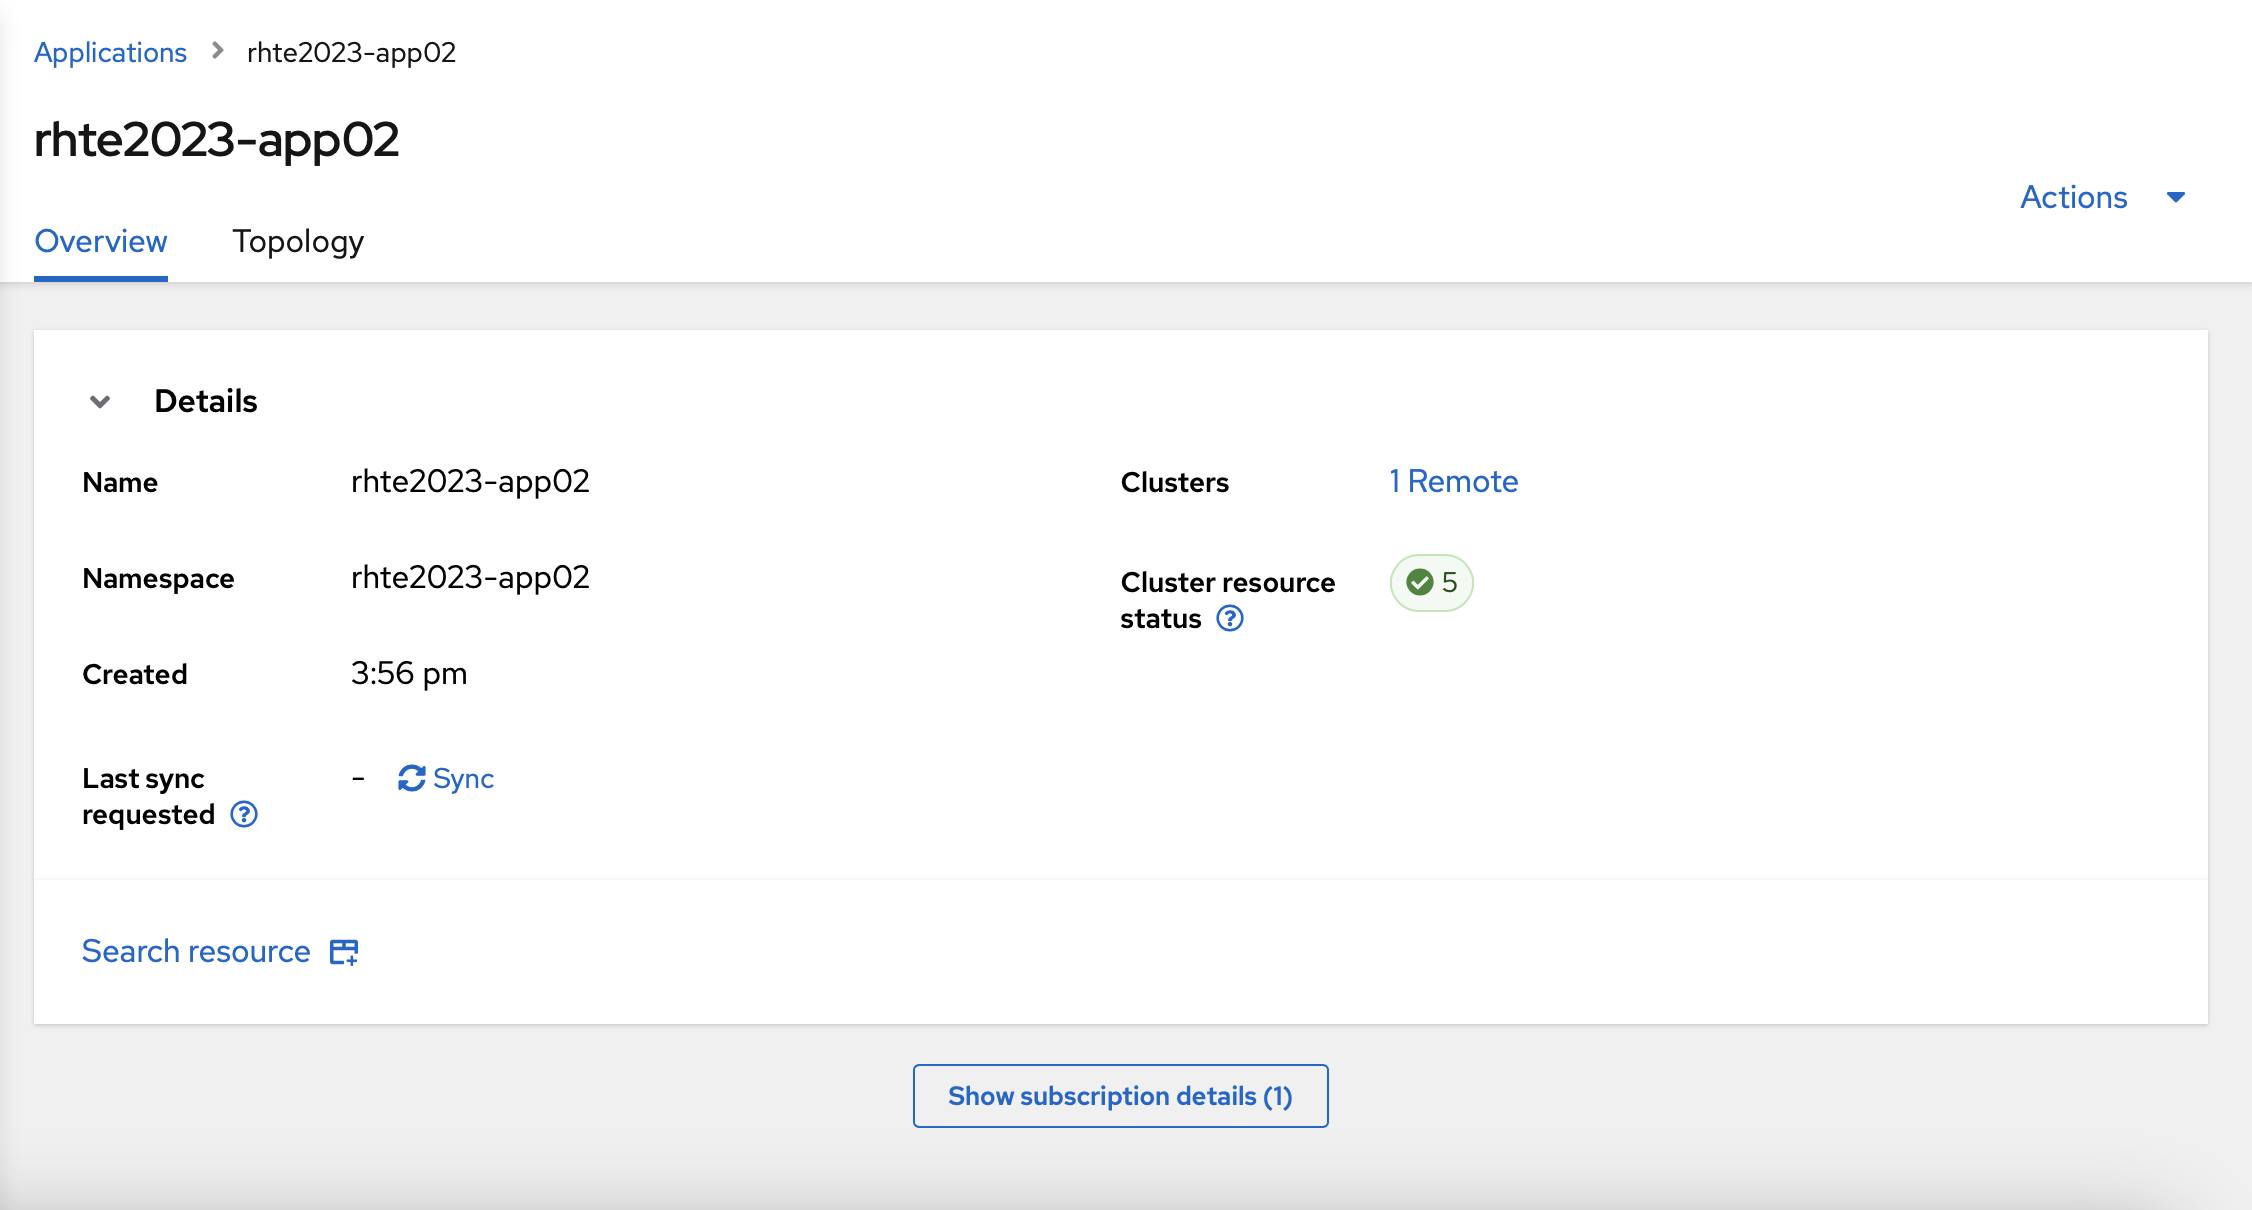
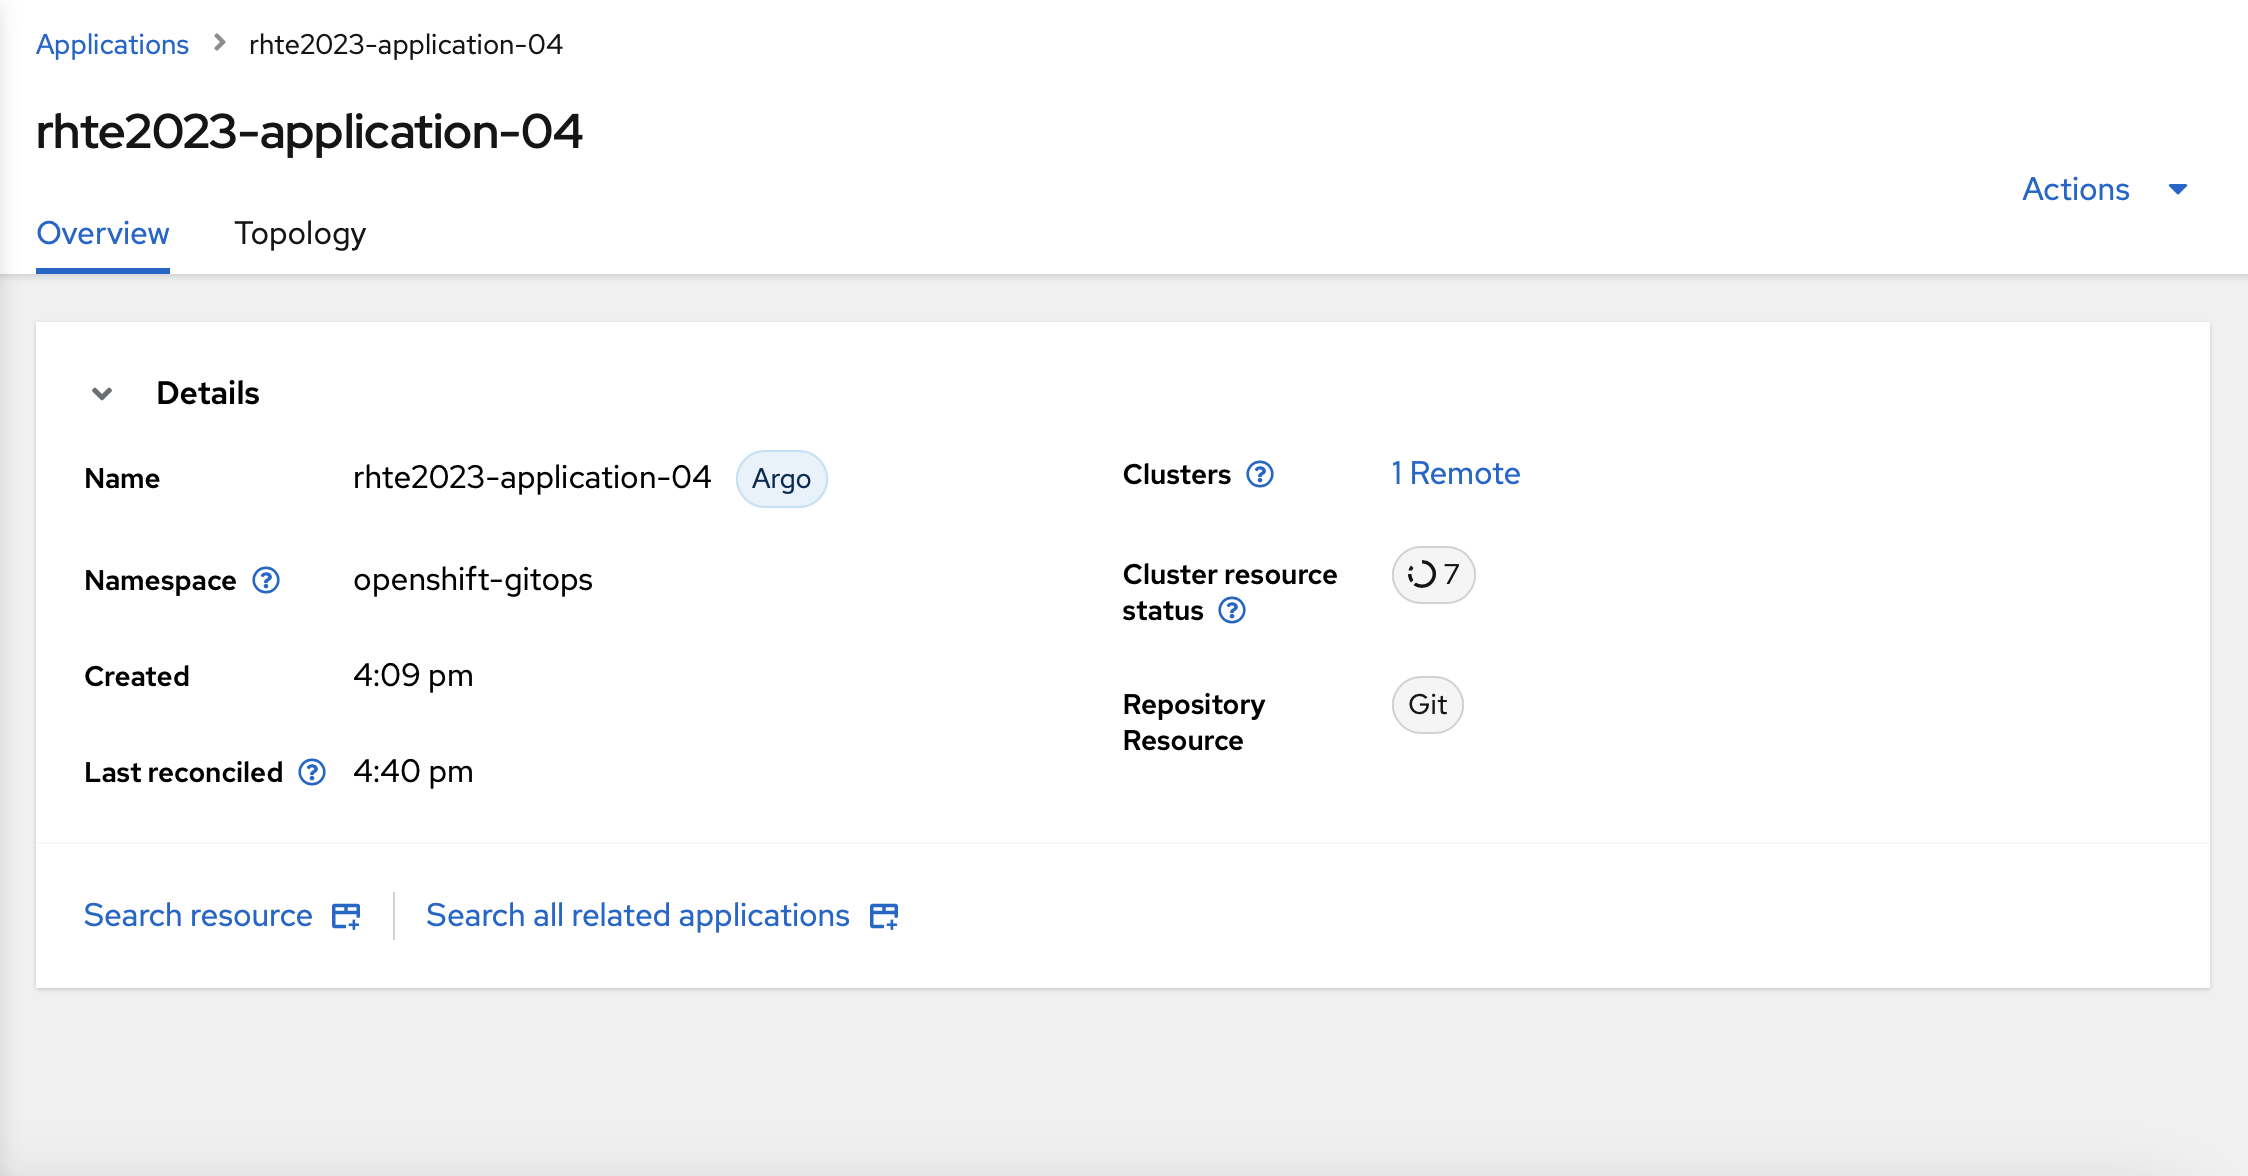
[CI] Publish Documentation for 1ce9641736ba7834295b876d04da6ff53dfc2f8e - 1ce9641736ba7834295b876d04da6ff53dfc2f8e 🚀

diff --git a/06-multiclusterapplication.html b/06-multiclusterapplication.html
@@ -184,21 +184,22 @@
 <h2 id="multiclusterapplication"><a class="anchor" href="#multiclusterapplication"></a>Advanced Cluster Management Multicluster Application</h2>
 <div class="sectionbody">
 <div class="paragraph">
-<p>Finally, you are going to check if your applications are fault tolerant. In this LAB, you have deployed three applications:
-. rhte2023-app01: Deployed on local-cluster (the OpenShift cluster where Red Hat Advanced Cluster Management is installed).
-. rhte2023-app02: Deployed on any of both clusters.
-. rhte2023-app03: Deployed on the managed cluster (the OpenShift cluster installed by Red Hat Advanced Cluster Management).</p>
+<p>Finally, you are going to check if your applications are fault tolerant. In this LAB, you have deployed four applications:
+. rhte2023-application-01: Deployed on both clusters.
+. rhte2023-application-02: Deployed on the remote cluster.
+. rhte2023-application-03: Deployed on the remote cluster.
+. rhte2023-application-04: Deployed on the cluster with less resources available.</p>
 </div>
 <div class="paragraph">
 <p>Now, we are going to hibernate the rhte2023-cluster01 cluster to check if the applications are fault tolerant.</p>
 </div>
 <div class="paragraph">
-<p>As the rhte2023-app01 application is on local-cluster only, this application is not going to be affected by the hibernation.
-The rhte2023-app02 application is running in rhe2023-cluster01 but can run on any OpenShift clusters. So when the cluster rhte2023-cluster01 is hibernated, the application is going will be moved to the local-cluster.
-Finally, the rhte2023-app03 application is running in rhte2023-cluster01 only. So this application will not be available when the cluster is hibernated.</p>
+<p>As the rhte2023-application-01 application is on both clusters, this application is going to lose one of the replicas.
+The rhte2023-application02 and rhte2023-application03 applications are running in the rhe2023-cluster01 cluster, but the applications can not run on any OpenShift clusters. So, both applications are not going to be available after hibernating the cluster.
+Finally, the rhte2023-application-04 is running on the rhte2023-cluster01 but can run on any cluster. So, this applications will be moved after hibernating the rhte2023-cluster01 cluster.</p>
 </div>
 <div class="paragraph">
-<p>You can check the rhte2023-app02 application status in Red Hat Advanced Cluster Management web interface. You can go into "Applications" section and search for "rhte2023-app02". You will see that the application is running on 1 Remote cluster</p>
+<p>You can check the rhte2023-application-04 application status in Red Hat Advanced Cluster Management web interface. You can go into "Applications" section and search for "rhte2023-application-04". You will see that the application is running on 1 Remote cluster.</p>
 </div>
 <div class="imageblock">
 <div class="content">
@@ -241,7 +242,7 @@ Finally, the rhte2023-app03 application is running in rhte2023-cluster01 only. S
 </div>
 </div>
 <div class="paragraph">
-<p>You can wait some time until the cluster is hibernated. When the cluster is Hibernated, you can check that the application has moved to the Local cluster.</p>
+<p>You can wait some time until the cluster is hibernated. When the cluster is Hibernated, you can check that the application has moved to the Local cluster. Please, note that the application could take some time to be migrated.</p>
 </div>
 <div class="imageblock">
 <div class="content">
